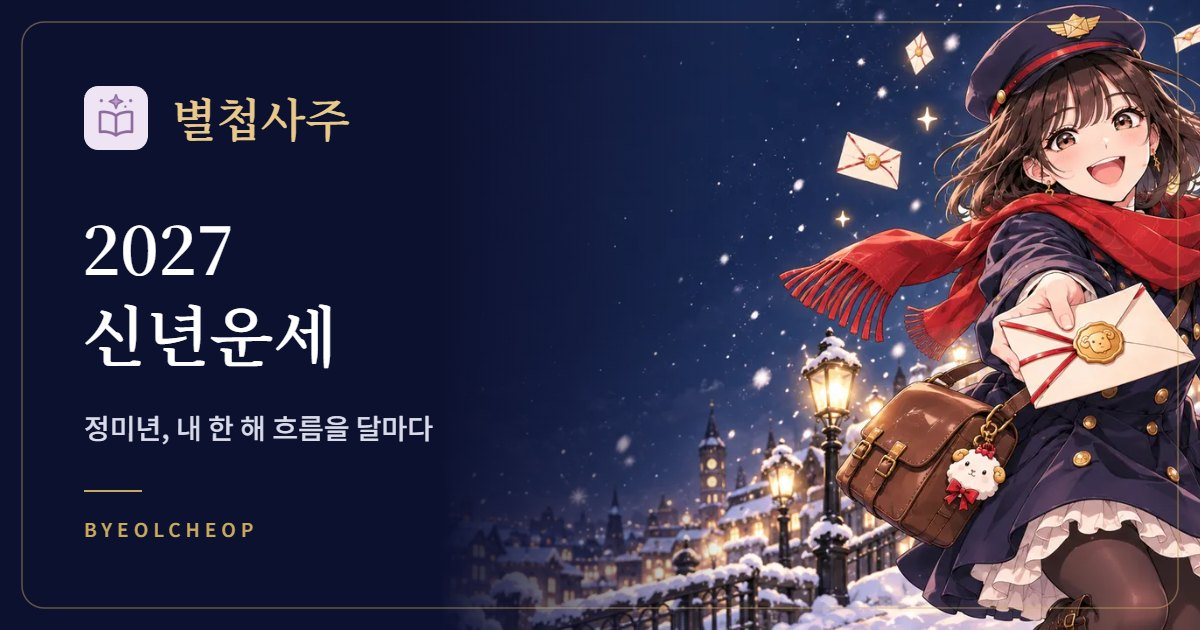
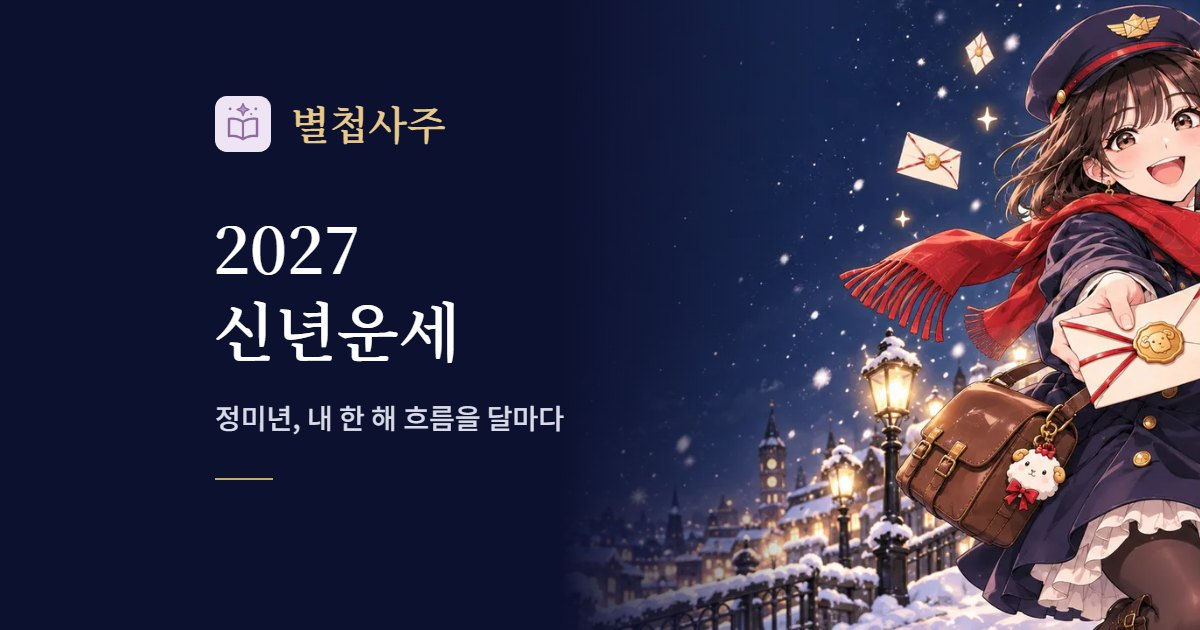
Link cards: keep text inside Naver's center crop, bust card image cache; plain words on birth form; calm time blocks on steady days

diff --git a/index.html b/index.html
@@ -1543,10 +1543,10 @@ main h1,main h1.section-title{font-family:var(--font-serif-heading);font-weight:
         </div>
 
         <div class="field">
-          <label for="f-city">출생 지역 <span class="hint">(경도 보정용)</span></label>
+          <label for="f-city">태어난 지역</label>
           <select id="f-city"></select>
-          <label class="check-row"><input type="checkbox" id="f-correction" checked>지역 경도 보정 적용 (진태양시 근사)</label>
-          <p class="hint">한국 표준시(동경 135도)와 실제 출생지 경도 차이를 보정해 시주를 더 정확히 계산해요.</p>
+          <label class="check-row"><input type="checkbox" id="f-correction" checked>태어난 지역에 맞춰 시간 고치기</label>
+          <p class="hint">지역마다 해가 뜨는 시각이 조금씩 달라요. 태어난 시간을 지역에 맞게 고쳐서 더 정확히 계산해요.</p>
         </div>
 
         <button type="submit" class="btn-primary">내 사주 확인하기</button>
@@ -1907,6 +1907,12 @@ function closePeriodBrief(){ var r = $('#brief-sheet-root'); if (r) r.innerHTML=
 
 /* 기간별(주간/월간/연간) 요약 문구 — 기간 동안 가장 많이 나타난 관계를 기준으로 사용 */
 /* 오늘의 운세 — 시간대별(아침/오후/저녁) 세분화 콘텐츠 (유료) */
+/* 정재 날은 본문이 '차곡차곡 쌓는 날'이라, 밀어붙이는 편재 문구 대신 차분한 문구를 쓴다. */
+var TIME_BLOCK_JEONGJAE = {
+  morning:'아침에는 오늘 할 일을 차분히 정리하기 좋아요. 해야 할 일을 적어 두고 작은 것부터 하나씩 끝내 보세요. 미뤄 둔 정리나 확인 작업을 오전에 해 두면 하루가 가벼워져요.',
+  afternoon:'오후에는 하던 일을 꾸준히 이어 가는 게 잘 맞아요. 새로 벌이기보다 마무리에 힘을 쓰세요. 돈 관리, 서류 확인, 약속 챙기기처럼 꼼꼼함이 필요한 일에 특히 좋아요.',
+  evening:'저녁에는 오늘 해낸 일을 돌아보며 쉬어 가세요. 가계부를 정리하거나 내일 할 일을 미리 적어 두면 마음이 편해져요. 큰 결정은 내일로 미뤄도 괜찮아요.'
+};
 var TIME_BLOCK_TEXT = {
   bigyeop:{
     morning:'눈뜨자마자 몸이 가볍고 의욕이 먼저 차오르는 아침이에요. 오늘 꼭 끝내야 할 일 중 가장 어려운 것을 아침 시간에 배치하면 추진력을 가장 잘 활용할 수 있어요. 다만 의욕이 앞선 나머지 주변에 상의 없이 혼자 결정부터 내리기 쉬우니, 중요한 건은 "오전 중 공유만 하고 실행은 오후에" 정도로 속도를 한 번 늦춰보세요.',
@@ -3630,7 +3636,7 @@ function renderSajuResult(result){
   var dayInfo = WUXING_INFO[result.dayGanWx];
 
   var corrNote = result.correctionMin ?
-    ('<p class="hint">경도 보정 '+(result.correctionMin>0?'+':'')+result.correctionMin+'분 적용 · 보정 후 '+result.solar.toYmdHms()+' 기준</p>') : '';
+    ('<p class="hint">태어난 지역에 맞춰 '+Math.abs(result.correctionMin)+'분 '+(result.correctionMin>0?'더해':'빼')+'서 '+result.solar.toYmdHms()+' 기준으로 봤어요</p>') : '';
 
   var html =
     '<div class="card">'+
@@ -3822,7 +3828,7 @@ function renderTimeBlockSection(my, body){
 function renderTimeBlockContent(my, body){
   var today = todayGanZhi();
   var relKey = dailyFortuneRelation(my.dayGanWx, today.wxGan);
-  var tb = TIME_BLOCK_TEXT[relKey];
+  var tb = dailyShishenKey(my.day.gan, my.dayGanWx, today.gan, today.wxGan)==='정재' ? TIME_BLOCK_JEONGJAE : TIME_BLOCK_TEXT[relKey];
   body.innerHTML = '<p class="section-title" style="font-size:.98rem;">시간대별 운세</p>'+
     personaWrap('today',
       '<div class="detail-block"><p class="ttl">'+ICO_SUNRISE+' 아침</p>'+autoParas(tb.morning)+'</div>'+

diff --git a/tests/og-cards.test.js b/tests/og-cards.test.js
@@ -18,8 +18,8 @@ test('each topic link picks its own card, even with utm values attached',()=>{
 test('the card swaps title, description and image and leaves the rest of the page alone',()=>{
   const {applyCard}=load();const out=applyCard(html,'love');
   assert.match(out,/<meta property="og:title" content="연애 사주 \| 별첩사주">/);
-  assert.match(out,/<meta property="og:image" content="https:\/\/www\.byeolcheop\.com\/og\/love\.jpg">/);
-  assert.match(out,/<meta name="twitter:image" content="https:\/\/www\.byeolcheop\.com\/og\/love\.jpg">/);
+  assert.match(out,/<meta property="og:image" content="https:\/\/www\.byeolcheop\.com\/og\/love\.jpg\?v=2">/);
+  assert.match(out,/<meta name="twitter:image" content="https:\/\/www\.byeolcheop\.com\/og\/love\.jpg\?v=2">/);
   assert.match(out,/<meta property="og:description" content="2027년 내 연애 흐름/);
   assert.match(out,/<title>연애 사주 \| 별첩사주<\/title>/);
   assert.equal(out.length-html.length<400,true);

diff --git a/tests/plain-words.test.js b/tests/plain-words.test.js
@@ -31,3 +31,11 @@ test('payment review: footer shows business details and the price list matches r
  assert.match(legal,new RegExp('이안의 비밀</th><td>'+fmt(ian)));
  assert.match(legal,new RegExp('결혼 사주</th><td>각 '+fmt(STAGE_PRICE.story)));
 });
+
+test('today: a steady (정재) day does not get the push-hard time blocks, and the birth form avoids jargon',()=>{
+  const fs=require('node:fs'),path=require('node:path');const html=fs.readFileSync(path.join(__dirname,'..','index.html'),'utf8');
+  assert.match(html,/==='정재' \? TIME_BLOCK_JEONGJAE : TIME_BLOCK_TEXT\[relKey\]/);
+  const calm=html.slice(html.indexOf('var TIME_BLOCK_JEONGJAE'),html.indexOf('var TIME_BLOCK_TEXT'));
+  assert.ok(!/추진력|밀어붙/.test(calm));
+  for(const w of ['경도 보정','진태양시','동경 135'])assert.ok(!html.includes(w),w);
+});

diff --git a/middleware.js b/middleware.js
@@ -34,7 +34,7 @@ function setMeta(html, attr, name, value) {
 export function applyCard(html, key) {
   const card = CARDS[key];
   if (!card) return html;
-  const image = SITE + '/og/' + key + '.jpg';
+  const image = SITE + '/og/' + key + '.jpg?v=2';
   html = setMeta(html, 'property', 'og:title', card.title);
   html = setMeta(html, 'property', 'og:description', card.desc);
   html = setMeta(html, 'property', 'og:image', image);
